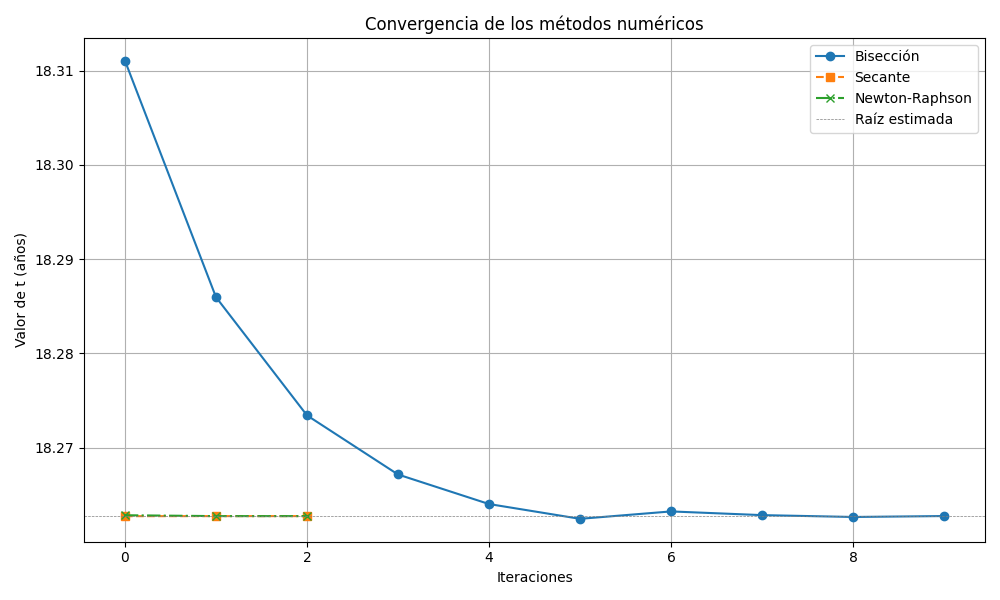
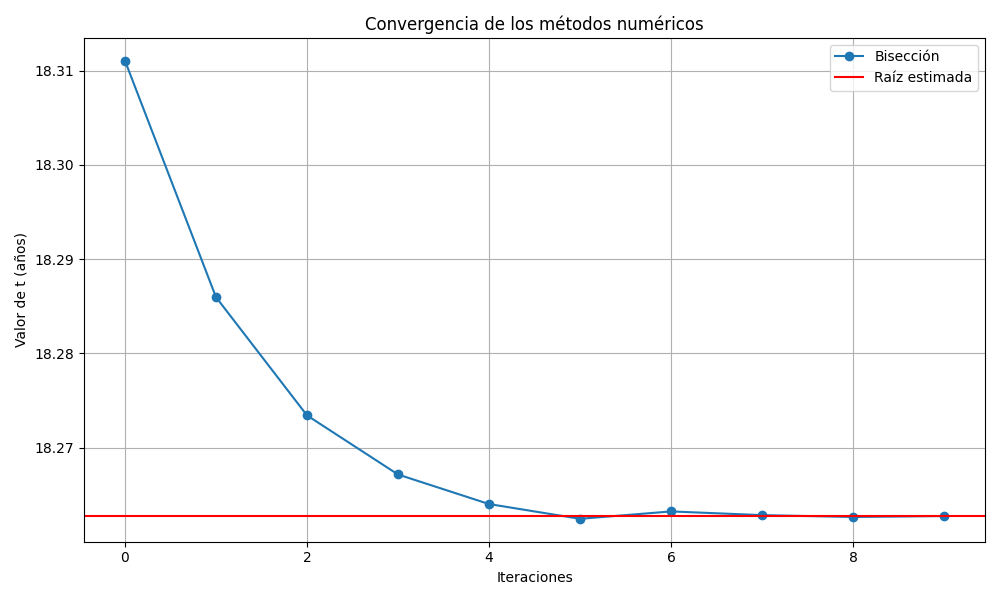
Avances

Changed region(s): [[0.093, 0.84, 0.961, 0.87], [0.806, 0.09, 0.992, 0.21]]

diff --git a/punto1.py b/punto1.py
@@ -99,12 +99,12 @@ print(f"Método Newton-Raphson:    t = {t_newt:.6f} años, Error = {err_newt:.2e
 plt.figure(figsize=(10, 6))
 plt.plot(biseccion_iter, 'o-', label="Bisección")
 plt.plot(secante_iter, 's--', label="Secante")
-plt.plot(newton_iter, 'x-.', label="Newton-Raphson")
-plt.axhline(t_bis, color='gray', linestyle='--', linewidth=0.5, label="Raíz estimada")
+# plt.plot(newton_iter, 'x-.', label="Newton-Raphson")
+plt.axhline(t_sec, color='gray', linewidth=0.5, label="Raíz estimada")
 plt.title("Convergencia de los métodos numéricos")
 plt.xlabel("Iteraciones")
 plt.ylabel("Valor de t (años)")
 plt.grid(True)
 plt.legend()
 plt.tight_layout()
-plt.savefig("grafica_biseccion.png")  # Guarda la gráfica como imagen
+plt.savefig("grafica_secante.png")  # Guarda la gráfica como imagen
